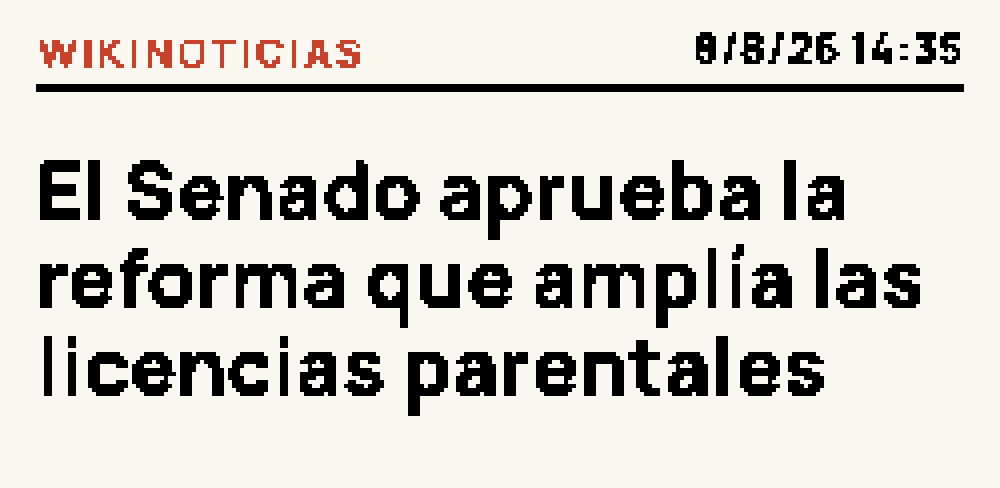
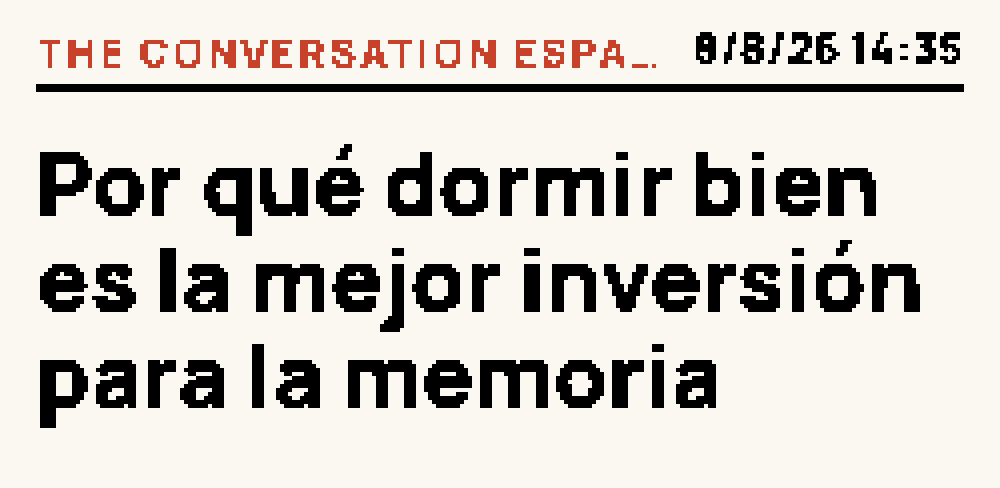
Versículo do dia na landing (story 5.23)
Claude-Session: https://claude.ai/code/session_01Q7DgZV3iwqiCkkcno1S6Df

diff --git a/src/pages/index.html b/src/pages/index.html
@@ -196,6 +196,10 @@
           <p class="tile-legenda"><span>Headline</span></p>
         </div>
         <div class="tile-face">
+          <img src="/assets/img/faces/en/versiculo.png" alt="Verse of the day face: a short public-domain Bible verse with its reference in red" width="1000" height="488" loading="lazy">
+          <p class="tile-legenda"><span>Verse of the day</span> <span class="chip">free</span></p>
+        </div>
+        <div class="tile-face">
           <img src="/assets/img/faces/en/contagem.png" alt="Countdown face: 12 days in large type, an airplane icon, the label and the date of the trip" width="1000" height="488" loading="lazy">
           <p class="tile-legenda"><span>Countdown</span></p>
         </div>
@@ -425,6 +429,10 @@
           <p class="tile-legenda"><span>Manchete</span></p>
         </div>
         <div class="tile-face">
+          <img src="/assets/img/faces/pt/versiculo.png" alt="Face Versículo do dia: um versículo curto de edição em domínio público, com a referência em vermelho" width="1000" height="488" loading="lazy">
+          <p class="tile-legenda"><span>Versículo do dia</span> <span class="chip">grátis</span></p>
+        </div>
+        <div class="tile-face">
           <img src="/assets/img/faces/pt/contagem.png" alt="Face Contagem regressiva: 12 dias em corpo grande, ícone de avião, o rótulo e a data da viagem" width="1000" height="488" loading="lazy">
           <p class="tile-legenda"><span>Contagem regressiva</span></p>
         </div>
@@ -652,6 +660,10 @@
         <div class="tile-face">
           <img src="/assets/img/faces/es/manchete.png" alt="Cara Titular: la noticia más reciente de una fuente con licencia abierta de tu país, con la fuente y la hora" width="1000" height="488" loading="lazy">
           <p class="tile-legenda"><span>Titular</span></p>
+        </div>
+        <div class="tile-face">
+          <img src="/assets/img/faces/es/versiculo.png" alt="Cara Versículo del día: un versículo corto de una edición de dominio público, con la referencia en rojo" width="1000" height="488" loading="lazy">
+          <p class="tile-legenda"><span>Versículo del día</span> <span class="chip">gratis</span></p>
         </div>
         <div class="tile-face">
           <img src="/assets/img/faces/es/contagem.png" alt="Cara Cuenta regresiva: 12 días en letra grande, ícono de avión, la etiqueta y la fecha del viaje" width="1000" height="488" loading="lazy">

diff --git a/es/index.html b/es/index.html
@@ -207,6 +207,10 @@
           <p class="tile-legenda"><span>Titular</span></p>
         </div>
         <div class="tile-face">
+          <img src="/assets/img/faces/es/versiculo.png" alt="Cara Versículo del día: un versículo corto de una edición de dominio público, con la referencia en rojo" width="1000" height="488" loading="lazy">
+          <p class="tile-legenda"><span>Versículo del día</span> <span class="chip">gratis</span></p>
+        </div>
+        <div class="tile-face">
           <img src="/assets/img/faces/es/contagem.png" alt="Cara Cuenta regresiva: 12 días en letra grande, ícono de avión, la etiqueta y la fecha del viaje" width="1000" height="488" loading="lazy">
           <p class="tile-legenda"><span>Cuenta regresiva</span></p>
         </div>

diff --git a/pt/index.html b/pt/index.html
@@ -204,6 +204,10 @@
           <p class="tile-legenda"><span>Manchete</span></p>
         </div>
         <div class="tile-face">
+          <img src="/assets/img/faces/pt/versiculo.png" alt="Face Versículo do dia: um versículo curto de edição em domínio público, com a referência em vermelho" width="1000" height="488" loading="lazy">
+          <p class="tile-legenda"><span>Versículo do dia</span> <span class="chip">grátis</span></p>
+        </div>
+        <div class="tile-face">
           <img src="/assets/img/faces/pt/contagem.png" alt="Face Contagem regressiva: 12 dias em corpo grande, ícone de avião, o rótulo e a data da viagem" width="1000" height="488" loading="lazy">
           <p class="tile-legenda"><span>Contagem regressiva</span></p>
         </div>

diff --git a/index.html b/index.html
@@ -201,6 +201,10 @@
           <p class="tile-legenda"><span>Headline</span></p>
         </div>
         <div class="tile-face">
+          <img src="/assets/img/faces/en/versiculo.png" alt="Verse of the day face: a short public-domain Bible verse with its reference in red" width="1000" height="488" loading="lazy">
+          <p class="tile-legenda"><span>Verse of the day</span> <span class="chip">free</span></p>
+        </div>
+        <div class="tile-face">
           <img src="/assets/img/faces/en/contagem.png" alt="Countdown face: 12 days in large type, an airplane icon, the label and the date of the trip" width="1000" height="488" loading="lazy">
           <p class="tile-legenda"><span>Countdown</span></p>
         </div>
